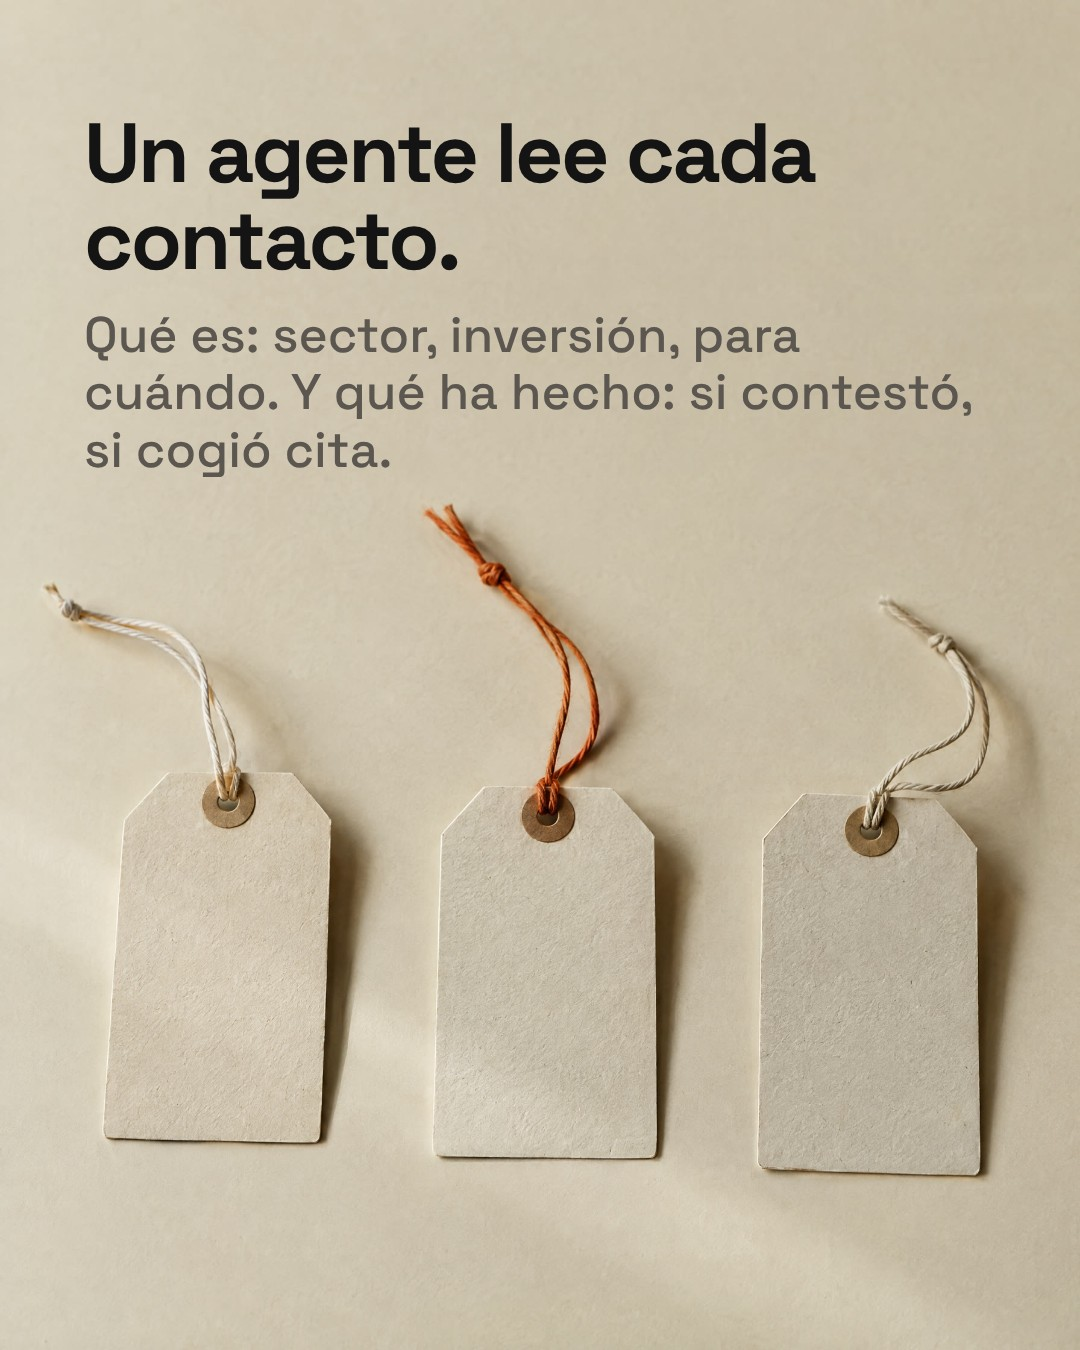
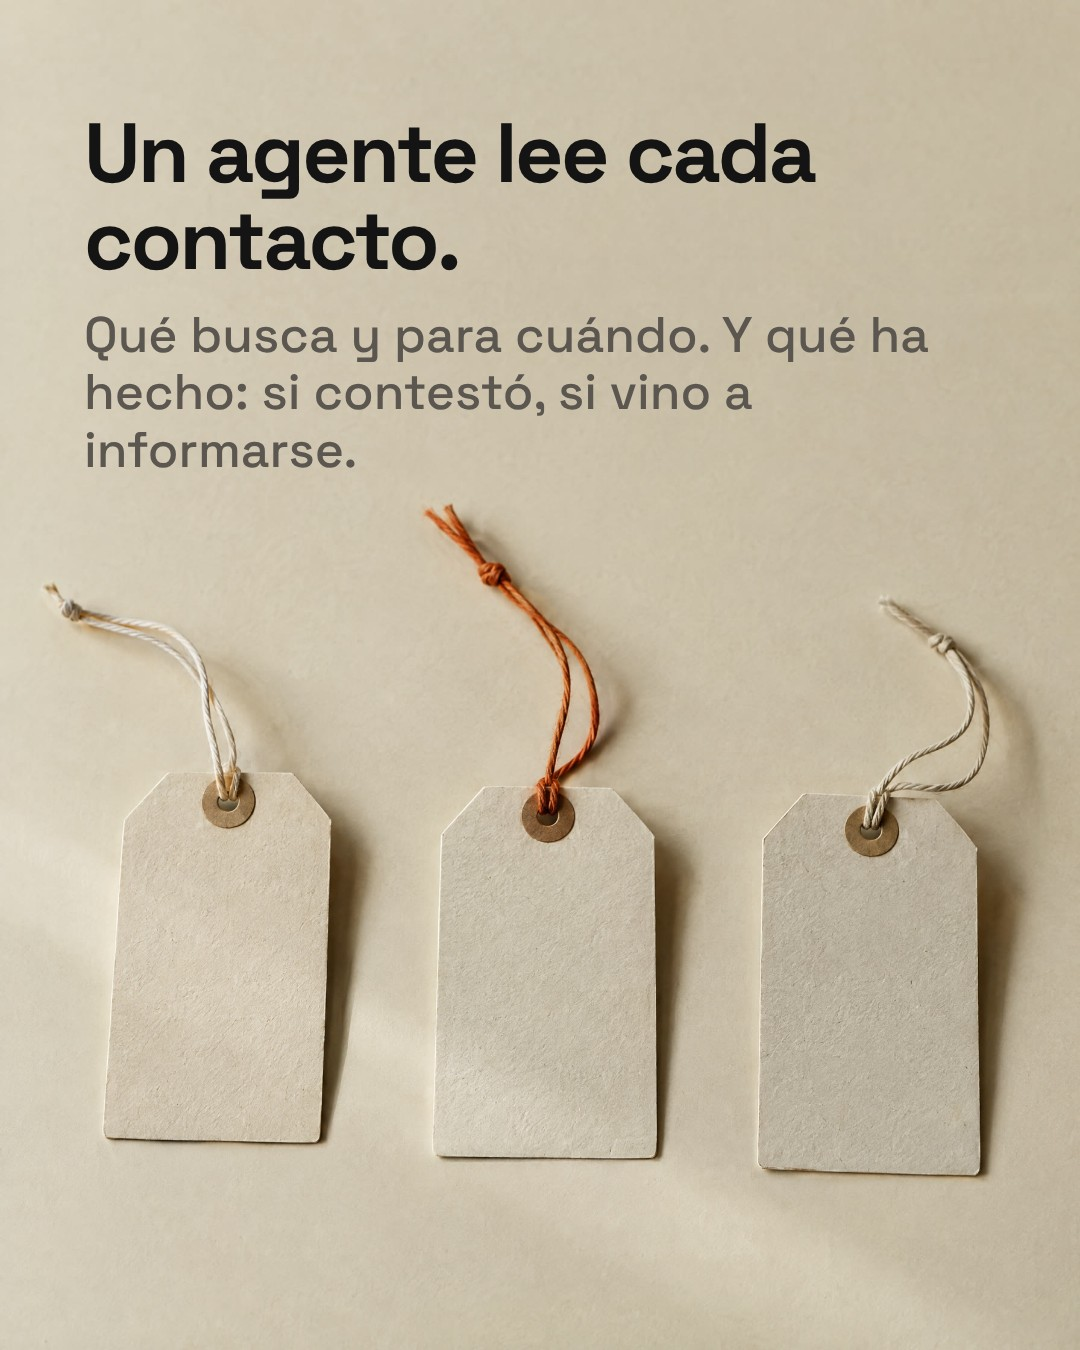
Carrusel «¿A quién llamas primero?»: ejemplo con los contactos del cliente, no los nuestros
Claude-Session: https://claude.ai/code/session_01MkLw1CM9nhHEYNrKFywYUs

Changed region(s): [[0.0611, 0.2178, 0.8861, 0.3733]]

diff --git a/content/redes/piezas/2026-11-a-quien-llamas-primero/carrusel.html b/content/redes/piezas/2026-11-a-quien-llamas-primero/carrusel.html
@@ -17,10 +17,10 @@ html,body{margin:0;background:#888}
 <div class="l" id="s1" style="background-image:url(foto-1.jpg)"><div class="t"><p class="g">Tienes 300 contactos en el CRM.</p><p class="m a">¿A quién llamas primero?</p></div><div class="firma">Maikel · Qualivo</div></div>
 <div class="l" id="s2" style="background-image:url(foto-2.jpg)"><div class="t"><p class="g">Casi todos llaman por orden de llegada.</p><p class="m">O al último que escribió.</p></div></div>
 <div class="l" id="s3" style="background-image:url(foto-3.jpg)"><div class="t"><p class="g">Y el que estaba listo para comprar se queda abajo.</p></div></div>
-<div class="l" id="s4" style="background-image:url(foto-4.jpg)"><div class="t"><p class="g">Un agente lee cada contacto.</p><p class="m">Qué es: sector, inversión, para cuándo. Y qué ha hecho: si contestó, si cogió cita.</p></div></div>
-<div class="l osc" id="s5" style="background-image:url(foto-5.jpg)"><div class="t"><p class="g">Y los ordena.</p><p class="m">Arriba, los que encajan y están activos.</p></div></div>
+<div class="l" id="s4" style="background-image:url(foto-4.jpg)"><div class="t"><p class="g">Un agente lee cada contacto.</p><p class="m">Qué busca y para cuándo. Y qué ha hecho: si contestó, si vino a informarse.</p></div></div>
+<div class="l osc" id="s5" style="background-image:url(foto-5.jpg)"><div class="t"><p class="g">Y los ordena.</p><p class="m">Arriba, los que tienen más interés y más prisa.</p></div></div>
 <div class="l" id="s6" style="background-image:url(foto-6.jpg)"><div class="t"><p class="g">Para cada uno, la siguiente acción.</p><p class="m">Llamar hoy, escribirle o esperar a la fecha que pactasteis.</p></div></div>
-<div class="l" id="s7" style="background-image:url(foto-7.jpg)"><div class="t"><p class="m" style="margin:0 0 28px">Lunes, 9:00. Lo primero de tu lista:</p><p class="cita">«Laura. Academia, quiere empezar en enero. Contestó ayer y aún no tiene cita. <b>Llámala hoy.</b>»</p></div><div class="ej">Ejemplo ilustrativo.</div></div>
+<div class="l" id="s7" style="background-image:url(foto-7.jpg)"><div class="t"><p class="m" style="margin:0 0 28px">Lunes, 9:00. Lo primero de tu lista:</p><p class="cita">«Laura pidió información del curso de inglés. Quiere empezar en enero. Contestó ayer y aún no ha venido a verlo. <b>Llámala hoy.</b>»</p></div><div class="ej">Ejemplo ilustrativo.</div></div>
 <div class="l" id="s8" style="background-image:url(foto-8.jpg)"><div class="t"><p class="g">Tu equipo deja de buscar a quién llamar.</p><p class="m">Y empieza por quien tiene más opciones de comprar.</p></div></div>
 <div class="l osc" id="s9" style="background-image:url(foto-9.jpg)"><div class="t"><p class="g">¿Cómo decide hoy tu equipo a quién llama primero?</p></div><div class="firma">Maikel · Qualivo</div></div>
 </body></html>
